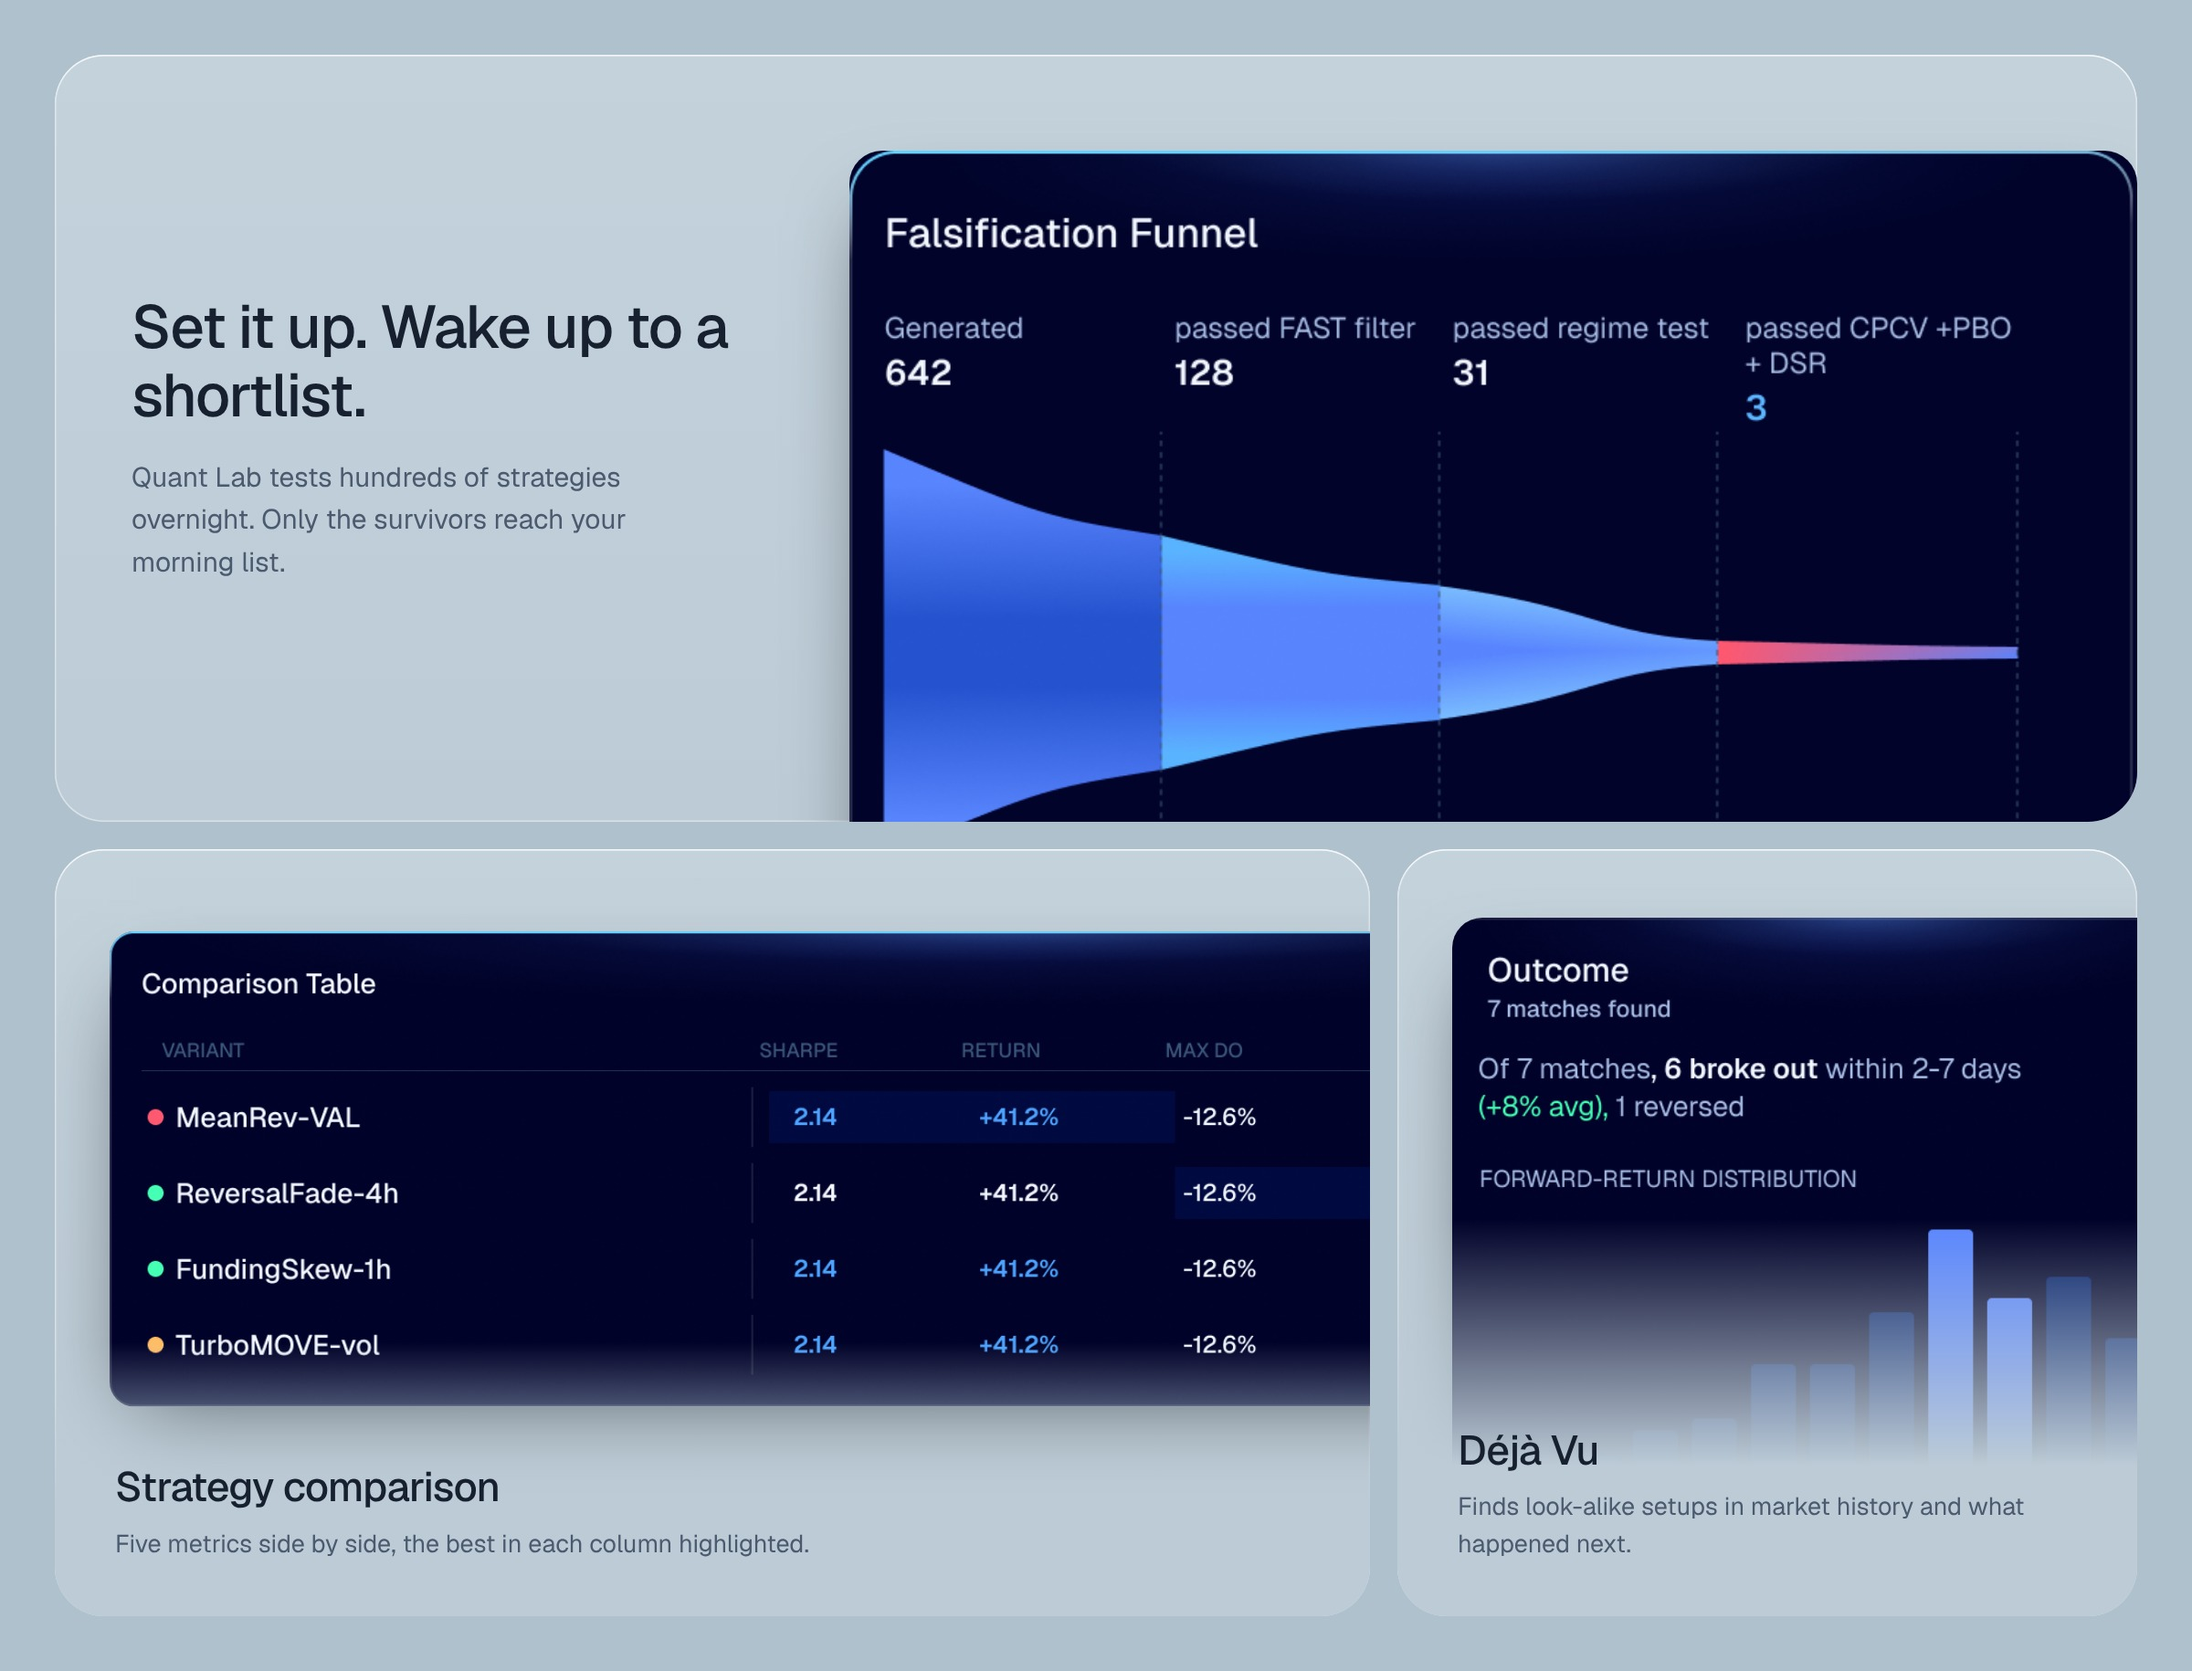
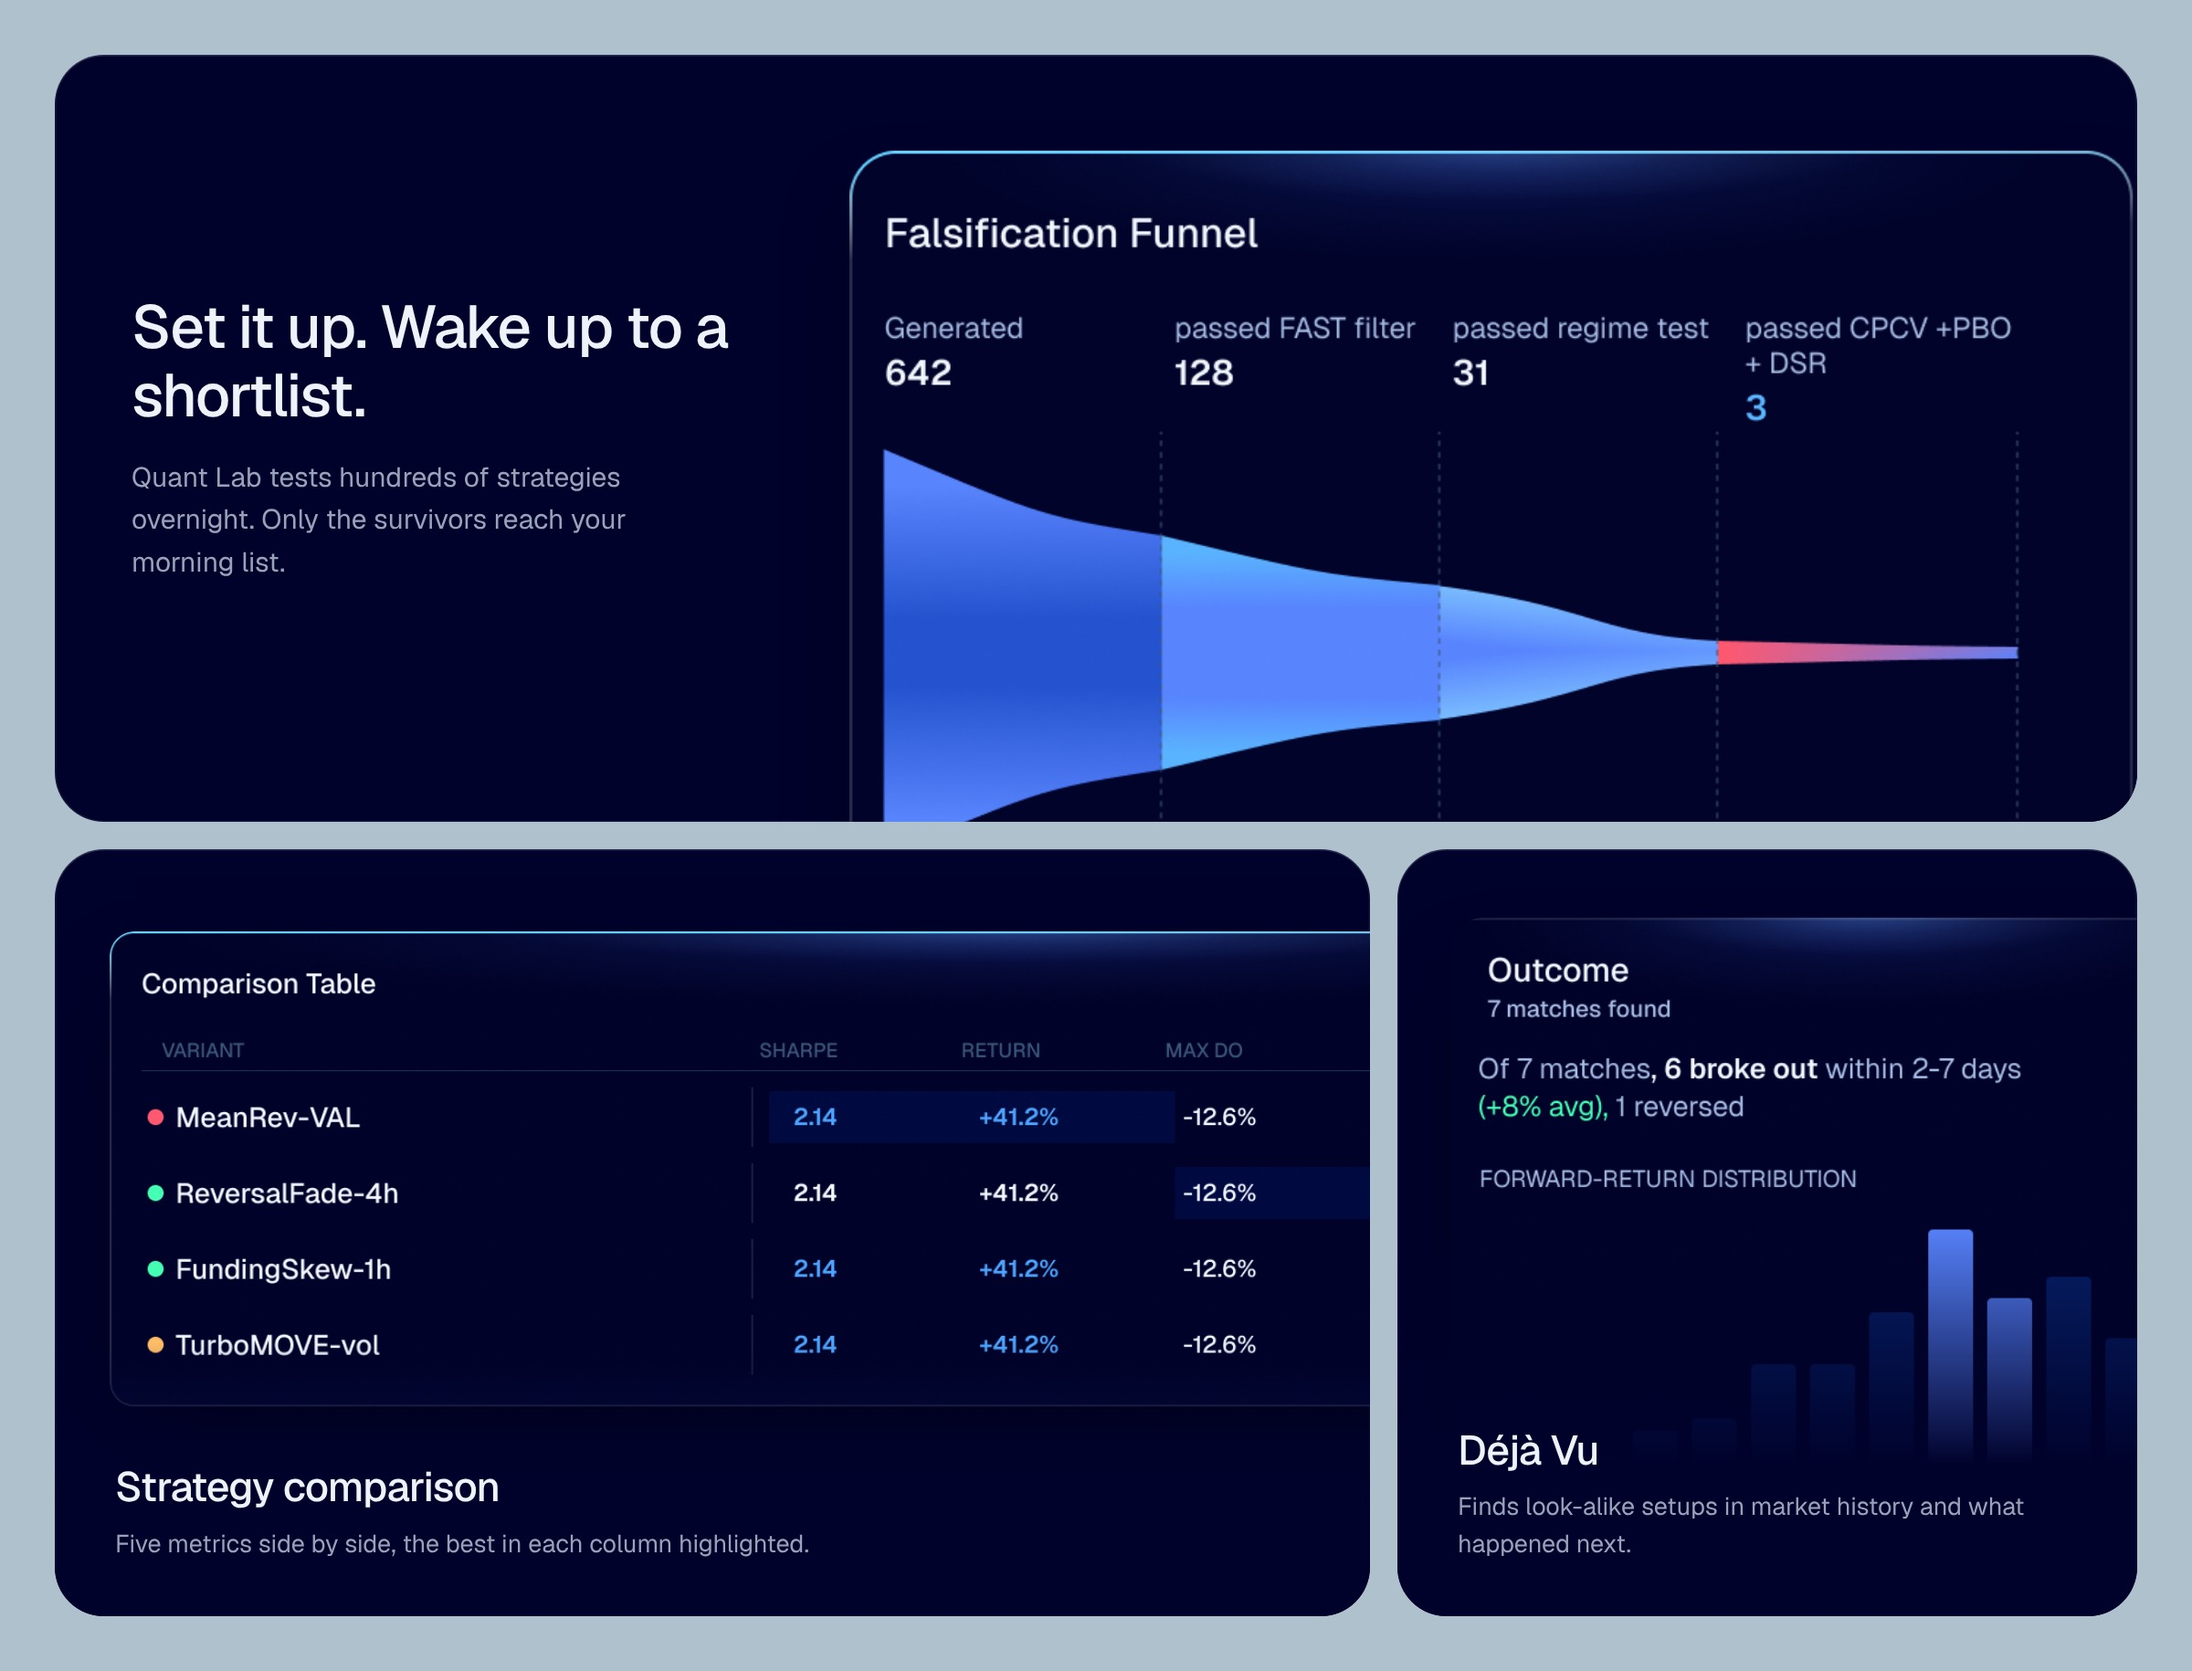
Jaadu bento: #00022B cards on #B0C1CE
Claude-Session: https://claude.ai/code/session_01L48ecgvWMXiCwrAdC3aGTG

diff --git a/scripts/mockups/jaadu/bento.html b/scripts/mockups/jaadu/bento.html
@@ -4,18 +4,18 @@
 @font-face{font-family:Geist;font-weight:500;src:url(node_modules/@fontsource/geist/files/geist-latin-500-normal.woff2)}
 body{margin:0;background:#fff}
 .pg{position:relative;width:1600px;overflow:hidden;margin:0 0 60px;background:#B0C1CE;font-family:Geist,sans-serif}
-.t{position:absolute;overflow:hidden;border-radius:36px;background:linear-gradient(180deg,#C4D2DC,#BCCBD6);box-shadow:inset 0 0 0 1px rgba(255,255,255,.45),inset 0 1px 0 rgba(255,255,255,.7)}
+.t{position:absolute;overflow:hidden;border-radius:36px;background:#00022B;box-shadow:inset 0 0 0 1px rgba(255,255,255,.08),inset 0 1px 0 rgba(255,255,255,.1)}
 .t .cap{position:absolute;left:44px;right:44px;bottom:40px;z-index:4}
-.t .cap h3{margin:0;font:500 30px/1.15 Geist;color:#16202F;letter-spacing:-.02em}
-.t .cap p{margin:10px 0 0;font:400 18px/1.5 Geist;color:#4B5A6E;max-width:520px}
-.t .fade{position:absolute;left:0;right:0;bottom:0;z-index:3;background:linear-gradient(180deg,rgba(188,203,214,0),#BCCBD6 62%)}
+.t .cap h3{margin:0;font:500 30px/1.15 Geist;color:#EEF2FA;letter-spacing:-.02em}
+.t .cap p{margin:10px 0 0;font:400 18px/1.5 Geist;color:#98A3BA;max-width:520px}
+.t .fade{position:absolute;left:0;right:0;bottom:0;z-index:3;background:linear-gradient(180deg,rgba(0,2,43,0),#00022B 62%)}
 .c{position:absolute;z-index:2;display:block;border-radius:18px;box-shadow:0 30px 60px -20px rgba(0,0,0,.6)}
 .glow{position:absolute;z-index:2;border-radius:30px;padding:16px;background:linear-gradient(135deg,#7FB6FF,#3D6BFF 40%,#2346C8);box-shadow:0 0 70px -10px rgba(70,120,255,.55)}
 .glow img{display:block;border-radius:16px}
-.ghost{position:absolute;z-index:1;border-radius:32px;border:2px solid rgba(22,32,47,.18);background:rgba(255,255,255,.12)}
+.ghost{position:absolute;z-index:1;border-radius:32px;border:2px solid rgba(255,255,255,.14);background:rgba(255,255,255,.02)}
 .wide .side{position:absolute;left:56px;top:0;bottom:0;width:440px;display:flex;flex-direction:column;justify-content:center}
-.wide .side h3{margin:0;font:500 44px/1.12 Geist;color:#16202F;letter-spacing:-.025em}
-.wide .side p{margin:20px 0 0;font:400 20px/1.55 Geist;color:#4B5A6E}
+.wide .side h3{margin:0;font:500 44px/1.12 Geist;color:#EEF2FA;letter-spacing:-.025em}
+.wide .side p{margin:20px 0 0;font:400 20px/1.55 Geist;color:#98A3BA}
 .stackbar{position:absolute;z-index:1;border-radius:0 0 22px 22px;background:#22304F;box-shadow:inset 0 0 0 1px rgba(255,255,255,.06)}
 </style>
 <div id="root"></div>
